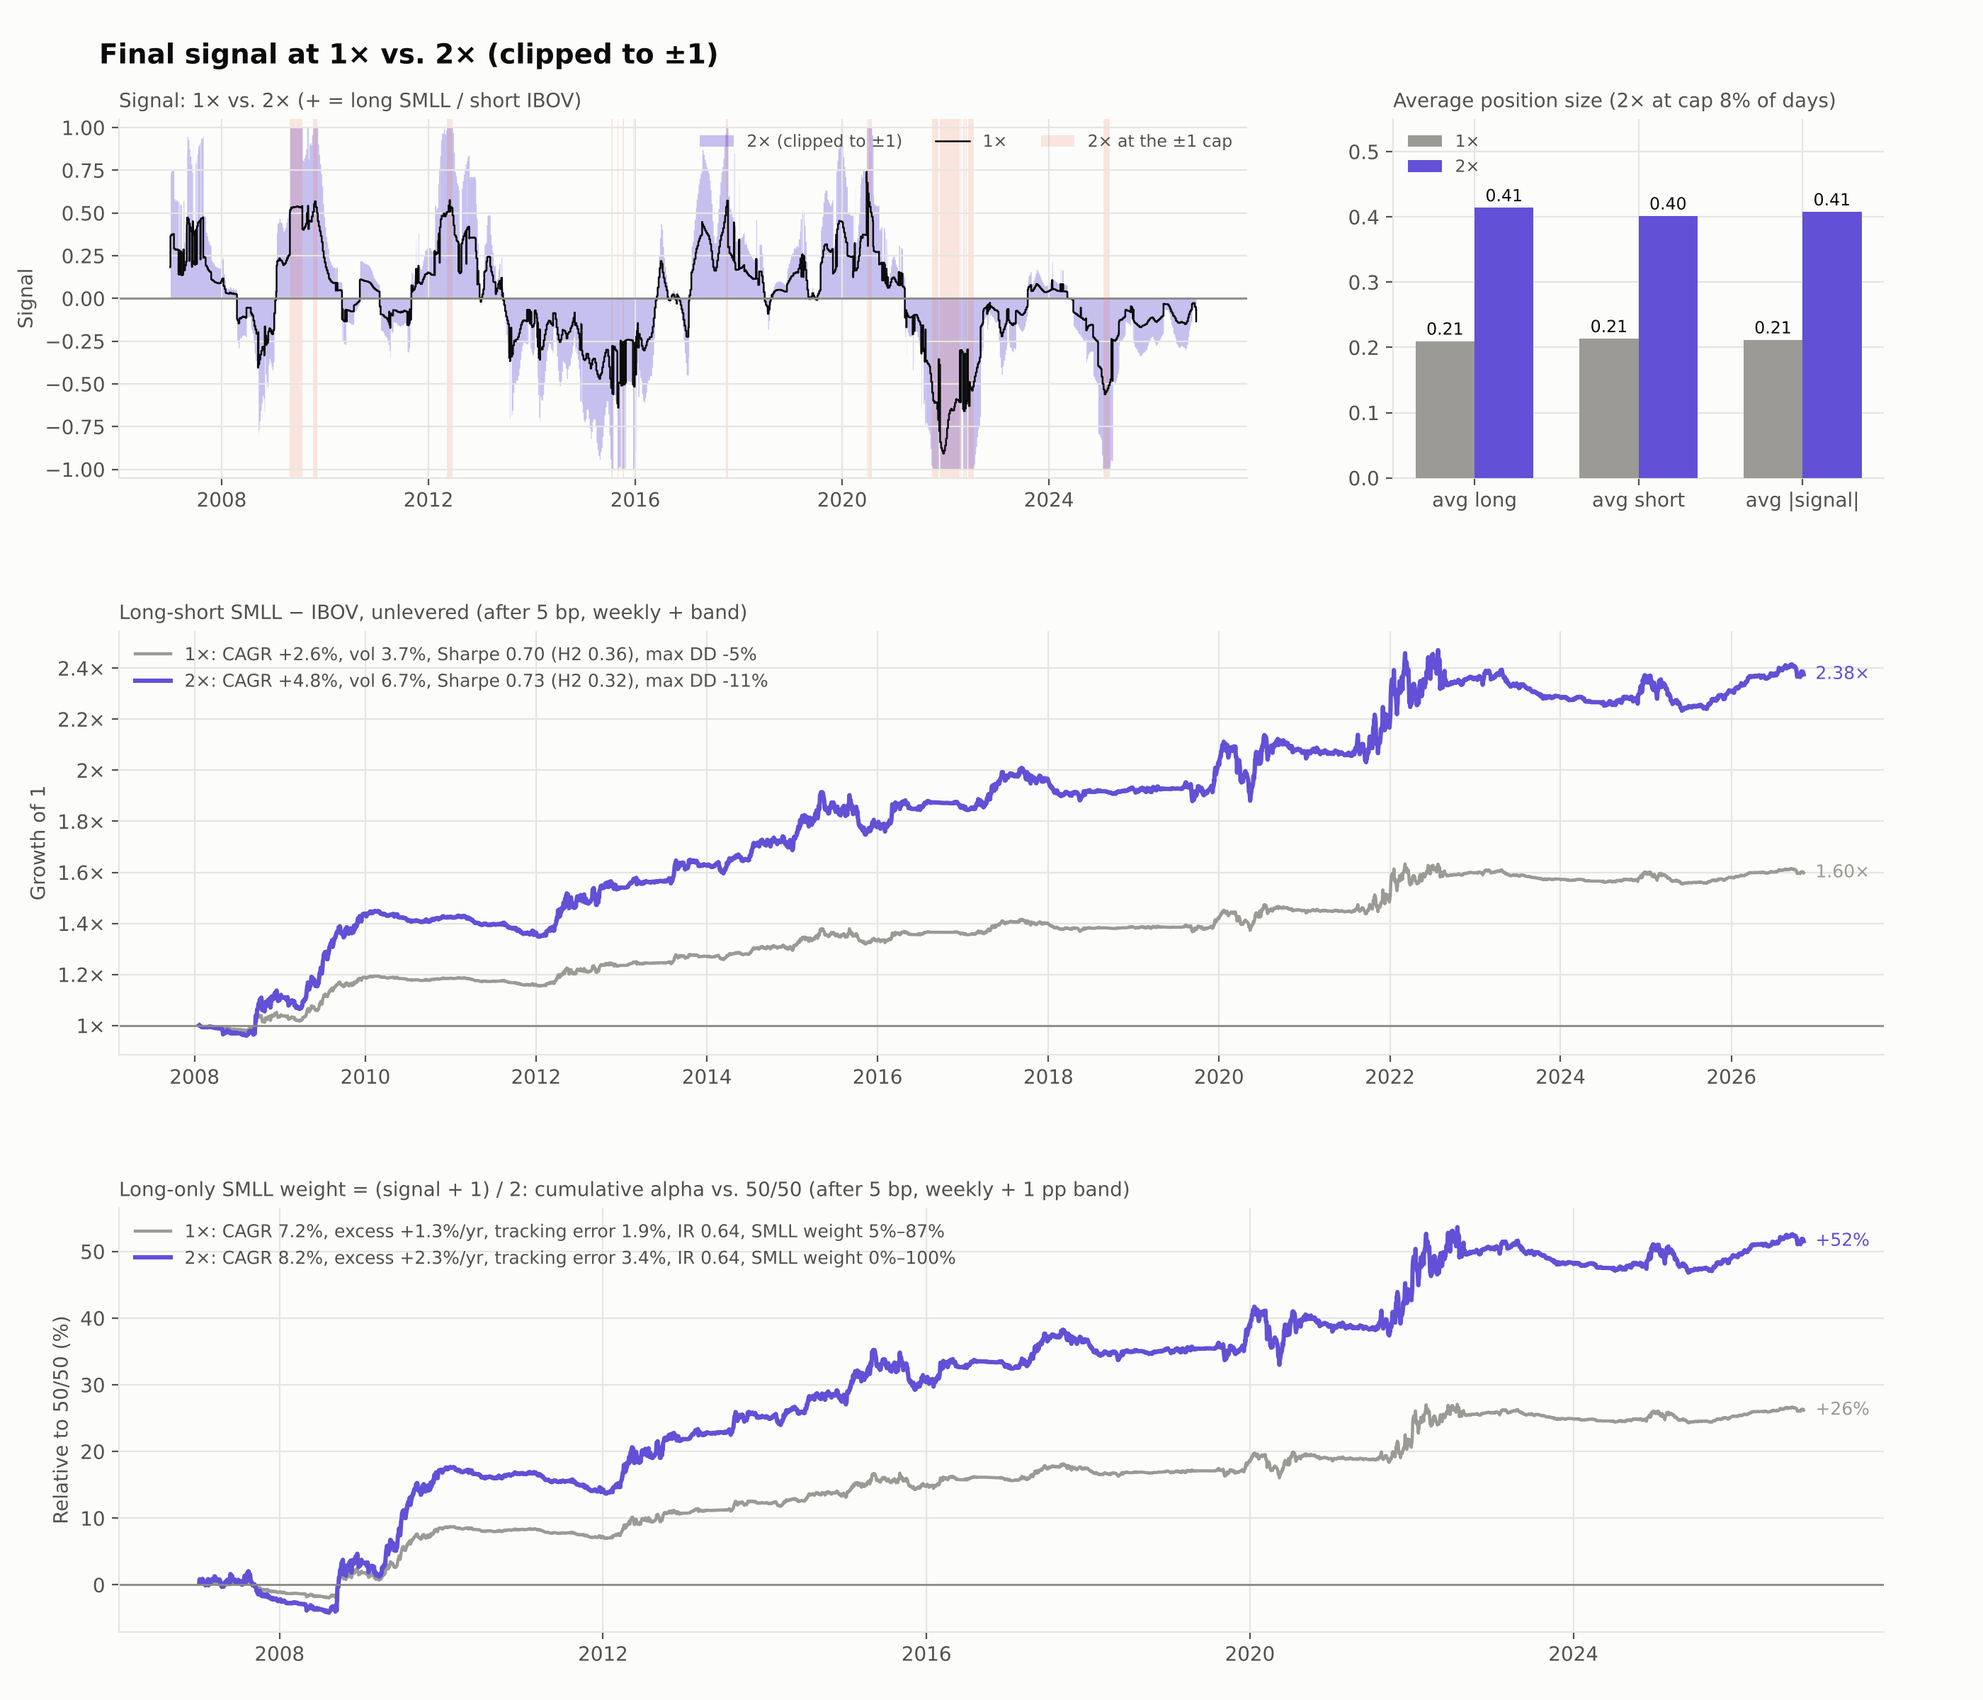
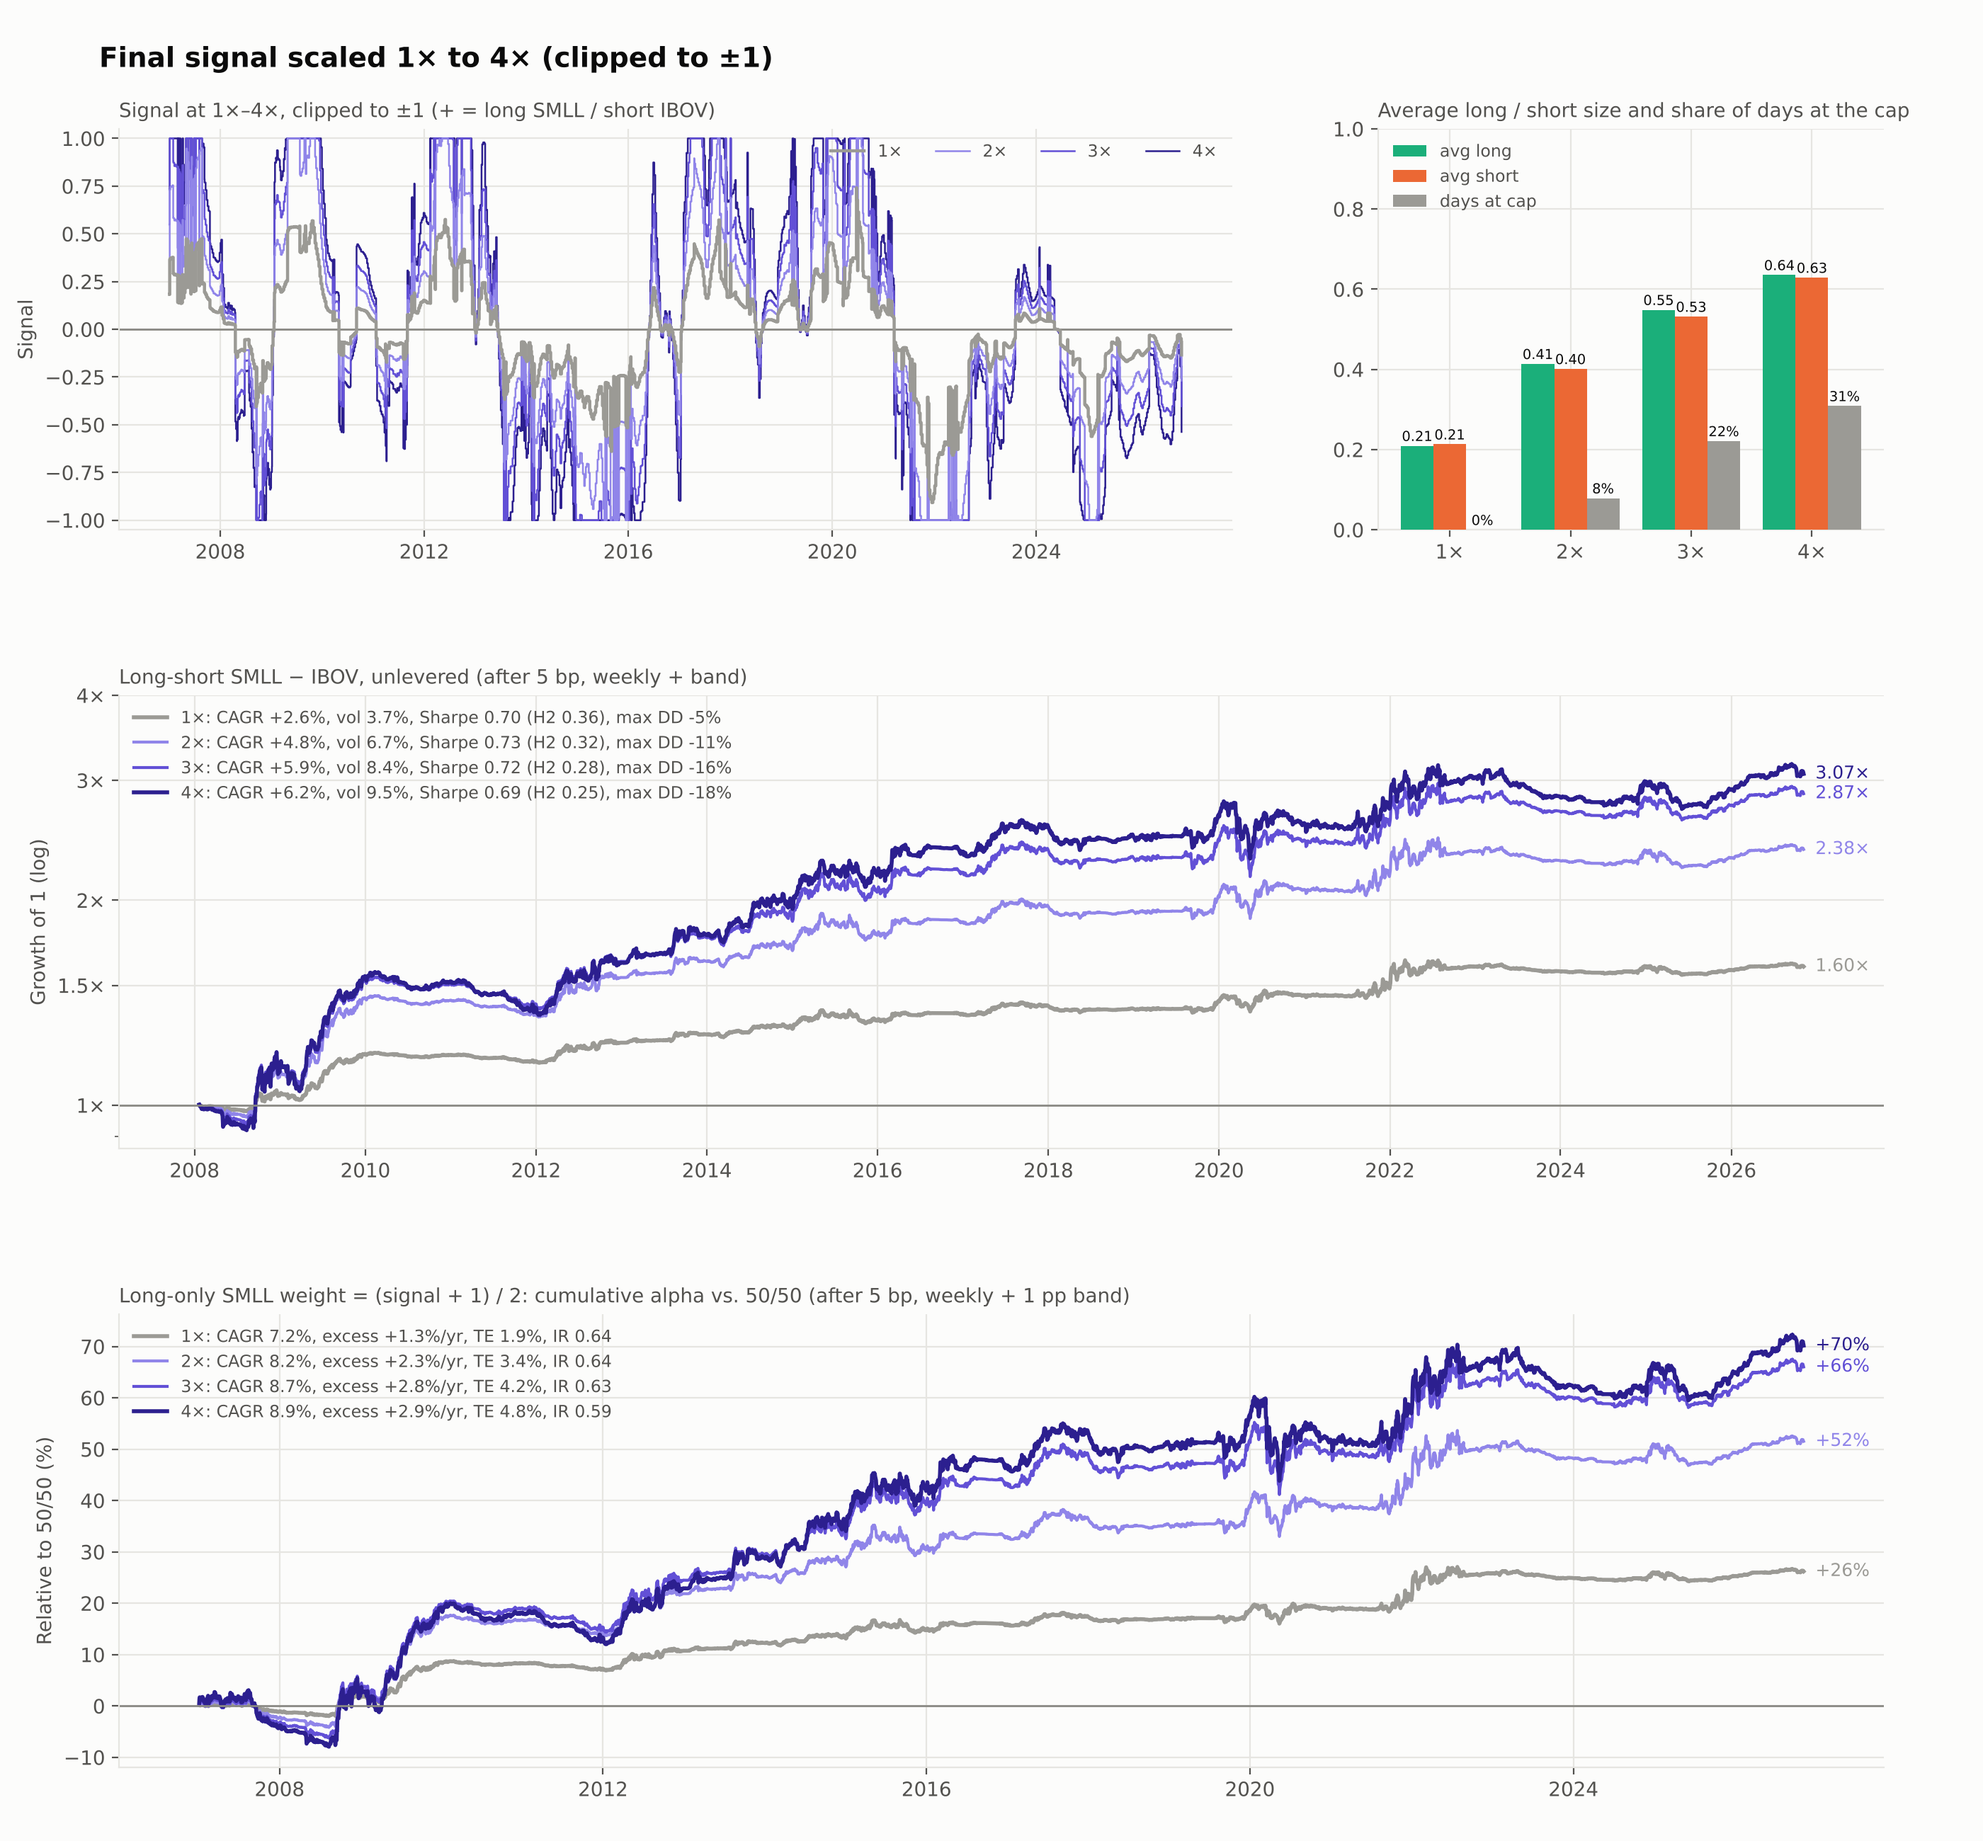
Extend signal scale test to 3x and 4x (clipped)
Claude-Session: https://claude.ai/code/session_01N3abmyKdctkUukS9BHxngQ

diff --git a/copom_smll/signal_scale_test.py b/copom_smll/signal_scale_test.py
@@ -1,8 +1,8 @@
 """
-Effect of doubling the final signal (clipped to [-1, 1]) on position sizes and performance.
+Effect of scaling the final signal 1x-4x (clipped to [-1, 1]) on position sizes and performance.
 
   1x: q_t = final signal
-  2x: clip(2 * q_t, -1, 1)
+  kx: clip(k * q_t, -1, 1), k = 2, 3, 4
 Size metrics: average long size (mean q when q > 0), average short size (mean |q| when q < 0),
 share of days long / short, share of days at the +-1 clip.
 Performance after 5 bp costs, weekly rebalancing with no-trade band:
@@ -18,9 +18,10 @@ with contextlib.redirect_stdout(io.StringIO()):
     import long_only_costs as lo
     import ls_costs as ls
 
+MULTS = (1, 2, 3, 4)
 q_full = pd.read_csv(ls.DATA / "final_core_daily.csv", index_col=0, parse_dates=True)["filtered_position"]
 rows, keep = [], {}
-for mult in (1, 2):
+for mult in MULTS:
     q = (mult * q_full).clip(-1, 1)
     size = {"Avg long size": q[q > 0].mean(), "Avg short size": -q[q < 0].mean(), "Avg |signal|": q.abs().mean(),
             "Days long": (q > 0).mean(), "Days short": (q < 0).mean(), "Days at ±1": (q.abs() >= 1).mean(),
@@ -47,8 +48,7 @@ print(tab.to_string())
 import matplotlib.pyplot as plt
 
 INK, INK2, MUTED, GRID, SURF = "#0b0b0b", "#52514e", "#8a8984", "#e6e5e1", "#fcfcfb"
-C1, C2 = "#9b9a95", "#6250d6"
-AQUA, ORANGE = "#1baf7a", "#eb6834"
+COL = {1: "#9b9a95", 2: "#9085e9", 3: "#6250d6", 4: "#2c1f8f"}
 plt.rcParams.update({"font.family": "DejaVu Sans", "font.size": 10, "text.color": INK, "axes.labelcolor": INK2,
                      "xtick.color": INK2, "ytick.color": INK2, "axes.edgecolor": GRID,
                      "figure.facecolor": SURF, "axes.facecolor": SURF})
@@ -61,73 +61,66 @@ def style(a):
 
 
 T = tab
-fig = plt.figure(figsize=(14, 12), dpi=200)
-gs = fig.add_gridspec(3, 2, width_ratios=[2.3, 1], height_ratios=[1.1, 1.3, 1.3], hspace=0.38, wspace=0.18)
-ax0 = fig.add_subplot(gs[0, 0])
-axh = fig.add_subplot(gs[0, 1])
-ax1 = fig.add_subplot(gs[1, :])
-ax2 = fig.add_subplot(gs[2, :])
+fig = plt.figure(figsize=(14, 13), dpi=200)
+gs = fig.add_gridspec(3, 2, width_ratios=[2.2, 1], height_ratios=[1.15, 1.3, 1.3], hspace=0.38, wspace=0.18)
+ax0, axh = fig.add_subplot(gs[0, 0]), fig.add_subplot(gs[0, 1])
+ax1, ax2 = fig.add_subplot(gs[1, :]), fig.add_subplot(gs[2, :])
 for a in (ax0, axh, ax1, ax2):
     style(a)
-# 1) signal over time
-q1, q2 = keep[1]["q"], keep[2]["q"]
-ax0.fill_between(q2.index, 0, q2, color=C2, alpha=0.35, lw=0, step="post", label="2× (clipped to ±1)")
-ax0.plot(q1.index, q1, color=INK, lw=0.9, drawstyle="steps-post", label="1×")
-clip = q2.abs() >= 1
-ax0.fill_between(q2.index, -1.05, 1.05, where=clip, color=ORANGE, alpha=0.15, lw=0, step="post", label="2× at the ±1 cap")
+for m in MULTS[::-1]:
+    qq = keep[m]["q"]
+    ax0.plot(qq.index, qq, color=COL[m], lw=1.6 if m == 1 else 0.9, drawstyle="steps-post", label=f"{m}×",
+             zorder=5 if m == 1 else 3)
 ax0.axhline(0, color=MUTED, lw=1)
 ax0.set_ylim(-1.05, 1.05)
 ax0.set_ylabel("Signal")
-ax0.legend(loc="upper right", frameon=False, fontsize=8.5, labelcolor=INK2, ncol=3)
-ax0.set_title("Signal: 1× vs. 2× (+ = long SMLL / short IBOV)", loc="left", fontsize=10, color=INK2)
-# size metrics
-labels = ["avg long", "avg short", "avg |signal|"]
-v1 = [T.loc["Avg long size", "1x"], T.loc["Avg short size", "1x"], T.loc["Avg |signal|", "1x"]]
-v2 = [T.loc["Avg long size", "2x"], T.loc["Avg short size", "2x"], T.loc["Avg |signal|", "2x"]]
-x = np.arange(3)
-axh.bar(x - 0.18, v1, width=0.36, color=C1, label="1×", zorder=3)
-axh.bar(x + 0.18, v2, width=0.36, color=C2, label="2×", zorder=3)
-for i in range(3):
-    axh.text(i - 0.18, v1[i] + 0.01, f"{v1[i]:.2f}", ha="center", fontsize=8.5)
-    axh.text(i + 0.18, v2[i] + 0.01, f"{v2[i]:.2f}", ha="center", fontsize=8.5)
+h, l = ax0.get_legend_handles_labels()
+ax0.legend(h[::-1], l[::-1], loc="upper right", frameon=False, fontsize=8.5, labelcolor=INK2, ncol=4)
+ax0.set_title("Signal at 1×–4×, clipped to ±1 (+ = long SMLL / short IBOV)", loc="left", fontsize=10, color=INK2)
+x = np.arange(len(MULTS))
+w_ = 0.27
+for j, (row, lab) in enumerate((("Avg long size", "avg long"), ("Avg short size", "avg short"), ("Days at ±1", "days at cap"))):
+    vals = [T.loc[row, f"{m}x"] for m in MULTS]
+    axh.bar(x + (j - 1) * w_, vals, width=w_, color=["#1baf7a", "#eb6834", "#9b9a95"][j], label=lab, zorder=3)
+    for i, v in enumerate(vals):
+        axh.text(i + (j - 1) * w_, v + 0.012, f"{v:.2f}" if j < 2 else f"{v:.0%}", ha="center", fontsize=7)
 axh.set_xticks(x)
-axh.set_xticklabels(labels)
-axh.set_ylim(0, 0.55)
+axh.set_xticklabels([f"{m}×" for m in MULTS])
+axh.set_ylim(0, 1)
 axh.legend(loc="upper left", frameon=False, fontsize=8.5, labelcolor=INK2)
-axh.set_title(f"Average position size (2× at cap {T.loc['Days at ±1', '2x']:.0%} of days)", loc="left", fontsize=10,
-              color=INK2)
-# 2) long-short backtest
-for m, c, lw in ((1, C1, 1.6), (2, C2, 2.2)):
+axh.set_title("Average long / short size and share of days at the cap", loc="left", fontsize=10, color=INK2)
+for m in MULTS:
     d = keep[m]["ls"]
     eq = (1 + d["net"]).cumprod()
     k = f"{m}x"
-    ax1.plot(eq.index, eq, color=c, lw=lw,
+    ax1.plot(eq.index, eq, color=COL[m], lw=2 if m in (1, 4) else 1.5,
              label=f"{m}×: CAGR {T.loc['L/S CAGR', k]:+.1%}, vol {T.loc['L/S vol', k]:.1%}, Sharpe {T.loc['L/S Sharpe', k]:.2f} "
                    f"(H2 {T.loc['L/S Sharpe H2', k]:.2f}), max DD {T.loc['L/S MaxDD', k]:.0%}")
     ax1.annotate(f"{eq.iloc[-1]:.2f}×", (eq.index[-1], eq.iloc[-1]), xytext=(6, 0), textcoords="offset points",
-                 fontsize=9, color=c, va="center")
+                 fontsize=9, color=COL[m], va="center")
 ax1.axhline(1, color=MUTED, lw=1)
+ax1.set_yscale("log")
+ax1.set_yticks([1, 1.5, 2, 3, 4])
 ax1.yaxis.set_major_formatter(plt.FuncFormatter(lambda v, _: f"{v:g}×"))
-ax1.legend(loc="upper left", frameon=False, fontsize=9, labelcolor=INK2)
-ax1.set_ylabel("Growth of 1")
+ax1.yaxis.set_minor_formatter(plt.NullFormatter())
+ax1.legend(loc="upper left", frameon=False, fontsize=8.5, labelcolor=INK2)
+ax1.set_ylabel("Growth of 1 (log)")
 ax1.set_title("Long-short SMLL − IBOV, unlevered (after 5 bp, weekly + band)", loc="left", fontsize=10, color=INK2)
-# 3) long-only alpha vs 50/50
-for m, c, lw in ((1, C1, 1.6), (2, C2, 2.2)):
+for m in MULTS:
     p, b = keep[m]["lo"], keep[m]["bm"]
     rel = ((1 + p["net"]).cumprod() / (1 + b["net"]).cumprod() - 1) * 100
     k = f"{m}x"
-    ax2.plot(rel.index, rel, color=c, lw=lw,
+    ax2.plot(rel.index, rel, color=COL[m], lw=2 if m in (1, 4) else 1.5,
              label=f"{m}×: CAGR {T.loc['LO CAGR', k]:.1%}, excess {T.loc['LO excess vs 50/50', k]:+.1%}/yr, "
-                   f"tracking error {T.loc['LO tracking error', k]:.1%}, IR {T.loc['LO IR', k]:.2f}, SMLL weight "
-                   f"{T.loc['LO SMLL weight range', k]}")
+                   f"TE {T.loc['LO tracking error', k]:.1%}, IR {T.loc['LO IR', k]:.2f}")
     ax2.annotate(f"{rel.iloc[-1]:+.0f}%", (rel.index[-1], rel.iloc[-1]), xytext=(6, 0), textcoords="offset points",
-                 fontsize=9, color=c, va="center")
+                 fontsize=9, color=COL[m], va="center")
 ax2.axhline(0, color=MUTED, lw=1)
-ax2.legend(loc="upper left", frameon=False, fontsize=9, labelcolor=INK2)
+ax2.legend(loc="upper left", frameon=False, fontsize=8.5, labelcolor=INK2)
 ax2.set_ylabel("Relative to 50/50 (%)")
 ax2.set_title("Long-only SMLL weight = (signal + 1) / 2: cumulative alpha vs. 50/50 (after 5 bp, weekly + 1 pp band)",
               loc="left", fontsize=10, color=INK2)
-fig.suptitle("Final signal at 1× vs. 2× (clipped to ±1)", x=0.05, ha="left", fontsize=14, fontweight="bold", y=0.975)
+fig.suptitle("Final signal scaled 1× to 4× (clipped to ±1)", x=0.05, ha="left", fontsize=14, fontweight="bold", y=0.975)
 fig.subplots_adjust(left=0.06, right=0.95, top=0.93, bottom=0.04)
 fig.savefig(ls.HERE / "signal_scale_test.png")
 print("saved")
